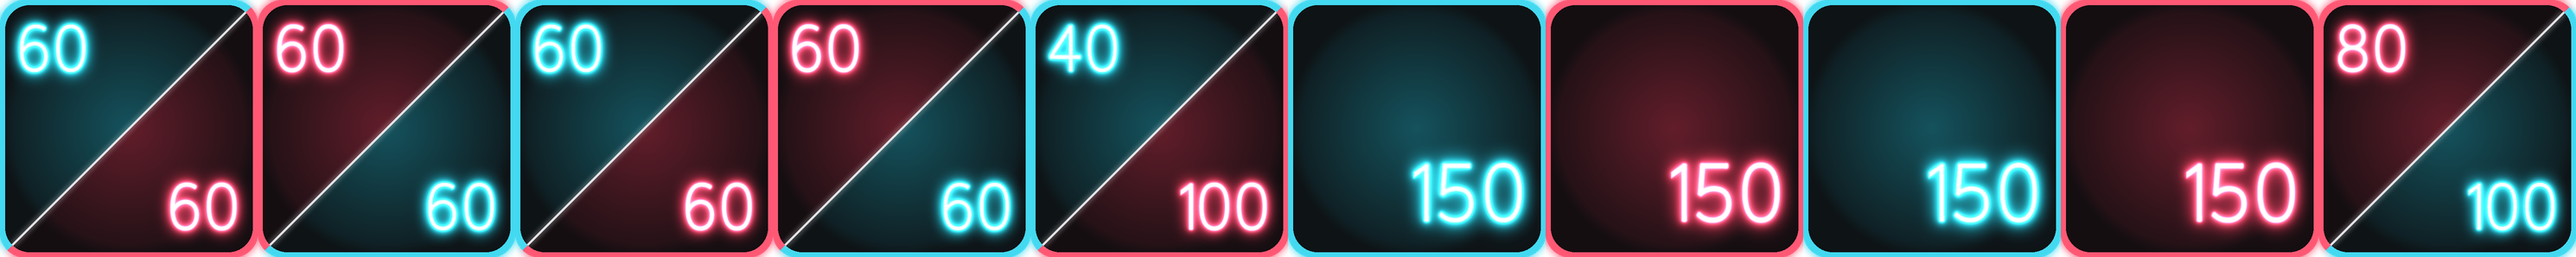
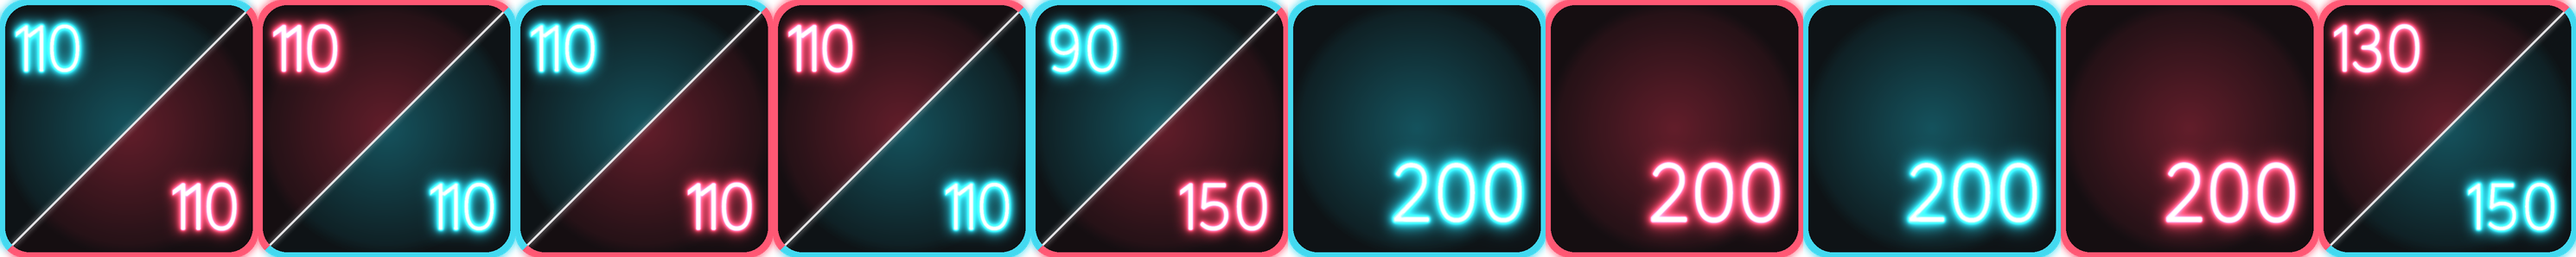
Ship prices: floor 50, smoother climb 50->200, ceiling 2000

diff --git a/core/src/com/spaceship/main/Main.java b/core/src/com/spaceship/main/Main.java
@@ -176,78 +176,78 @@ public class Main extends Game{
 			if(cursor != null && cursor.next())
 				if(String.valueOf(cursor.getInt(0)).equals("0")){
 					shipsDB.execSQL("INSERT INTO ships (id, bought, reds, blues) VALUES (0, 1, 0, 0)");
-					shipsDB.execSQL("INSERT INTO ships (id, bought, reds, blues) VALUES (1, 0, 25, 0)");
-					shipsDB.execSQL("INSERT INTO ships (id, bought, reds, blues) VALUES (2, 0, 0, 25)");
-					shipsDB.execSQL("INSERT INTO ships (id, bought, reds, blues) VALUES (3, 0, 25, 0)");
-					shipsDB.execSQL("INSERT INTO ships (id, bought, reds, blues) VALUES (4, 0, 0, 25)");
-					shipsDB.execSQL("INSERT INTO ships (id, bought, reds, blues) VALUES (5, 0, 0, 25)");
-					shipsDB.execSQL("INSERT INTO ships (id, bought, reds, blues) VALUES (6, 0, 25, 25)");
-					shipsDB.execSQL("INSERT INTO ships (id, bought, reds, blues) VALUES (7, 0, 25, 0)");
-					shipsDB.execSQL("INSERT INTO ships (id, bought, reds, blues) VALUES (8, 0, 25, 25)");
-					shipsDB.execSQL("INSERT INTO ships (id, bought, reds, blues) VALUES (9, 0, 0, 30)");
-					shipsDB.execSQL("INSERT INTO ships (id, bought, reds, blues) VALUES (10, 0, 30, 0)");
-					shipsDB.execSQL("INSERT INTO ships (id, bought, reds, blues) VALUES (11, 0, 40, 0)");
-					shipsDB.execSQL("INSERT INTO ships (id, bought, reds, blues) VALUES (12, 0, 25, 25)");
-					shipsDB.execSQL("INSERT INTO ships (id, bought, reds, blues) VALUES (13, 0, 25, 25)");
-					shipsDB.execSQL("INSERT INTO ships (id, bought, reds, blues) VALUES (14, 0, 0, 40)");
-					shipsDB.execSQL("INSERT INTO ships (id, bought, reds, blues) VALUES (15, 0, 0, 50)");
-					shipsDB.execSQL("INSERT INTO ships (id, bought, reds, blues) VALUES (16, 0, 50, 0)");
-					shipsDB.execSQL("INSERT INTO ships (id, bought, reds, blues) VALUES (17, 0, 0, 50)");
-					shipsDB.execSQL("INSERT INTO ships (id, bought, reds, blues) VALUES (18, 0, 50, 0)");
-					shipsDB.execSQL("INSERT INTO ships (id, bought, reds, blues) VALUES (19, 0, 0, 70)");
-					shipsDB.execSQL("INSERT INTO ships (id, bought, reds, blues) VALUES (20, 0, 70, 0)");
-					shipsDB.execSQL("INSERT INTO ships (id, bought, reds, blues) VALUES (21, 0, 50, 25)");
-					shipsDB.execSQL("INSERT INTO ships (id, bought, reds, blues) VALUES (22, 0, 40, 40)");
-					shipsDB.execSQL("INSERT INTO ships (id, bought, reds, blues) VALUES (23, 0, 80, 0)");
-					shipsDB.execSQL("INSERT INTO ships (id, bought, reds, blues) VALUES (24, 0, 0, 80)");
-					shipsDB.execSQL("INSERT INTO ships (id, bought, reds, blues) VALUES (25, 0, 30, 50)");
-					shipsDB.execSQL("INSERT INTO ships (id, bought, reds, blues) VALUES (26, 0, 0, 100)");
-					shipsDB.execSQL("INSERT INTO ships (id, bought, reds, blues) VALUES (27, 0, 100, 0)");
-					shipsDB.execSQL("INSERT INTO ships (id, bought, reds, blues) VALUES (28, 0, 100, 0)");
-					shipsDB.execSQL("INSERT INTO ships (id, bought, reds, blues) VALUES (29, 0, 0, 100)");
-					shipsDB.execSQL("INSERT INTO ships (id, bought, reds, blues) VALUES (30, 0, 60, 60)");
-					shipsDB.execSQL("INSERT INTO ships (id, bought, reds, blues) VALUES (31, 0, 60, 60)");
-					shipsDB.execSQL("INSERT INTO ships (id, bought, reds, blues) VALUES (32, 0, 60, 60)");
-					shipsDB.execSQL("INSERT INTO ships (id, bought, reds, blues) VALUES (33, 0, 60, 60)");
-					shipsDB.execSQL("INSERT INTO ships (id, bought, reds, blues) VALUES (34, 0, 100, 40)");
-					shipsDB.execSQL("INSERT INTO ships (id, bought, reds, blues) VALUES (35, 0, 0, 150)");
-					shipsDB.execSQL("INSERT INTO ships (id, bought, reds, blues) VALUES (36, 0, 150, 0)");
-					shipsDB.execSQL("INSERT INTO ships (id, bought, reds, blues) VALUES (37, 0, 0, 150)");
-					shipsDB.execSQL("INSERT INTO ships (id, bought, reds, blues) VALUES (38, 0, 150, 0)");
-					shipsDB.execSQL("INSERT INTO ships (id, bought, reds, blues) VALUES (39, 0, 80, 100)");
-					shipsDB.execSQL("INSERT INTO ships (id, bought, reds, blues) VALUES (40, 0, 100, 80)");
-					shipsDB.execSQL("INSERT INTO ships (id, bought, reds, blues) VALUES (41, 0, 80, 100)");
-					shipsDB.execSQL("INSERT INTO ships (id, bought, reds, blues) VALUES (42, 0, 110, 80)");
-					shipsDB.execSQL("INSERT INTO ships (id, bought, reds, blues) VALUES (43, 0, 0, 250)");
-					shipsDB.execSQL("INSERT INTO ships (id, bought, reds, blues) VALUES (44, 0, 250, 0)");
-					shipsDB.execSQL("INSERT INTO ships (id, bought, reds, blues) VALUES (45, 0, 0, 250)");
-					shipsDB.execSQL("INSERT INTO ships (id, bought, reds, blues) VALUES (46, 0, 250, 0)");
-					shipsDB.execSQL("INSERT INTO ships (id, bought, reds, blues) VALUES (47, 0, 160, 60)");
-					shipsDB.execSQL("INSERT INTO ships (id, bought, reds, blues) VALUES (48, 0, 150, 70)");
-					shipsDB.execSQL("INSERT INTO ships (id, bought, reds, blues) VALUES (49, 0, 170, 80)");
-					shipsDB.execSQL("INSERT INTO ships (id, bought, reds, blues) VALUES (50, 0, 0, 350)");
-					shipsDB.execSQL("INSERT INTO ships (id, bought, reds, blues) VALUES (51, 0, 350, 0)");
-					shipsDB.execSQL("INSERT INTO ships (id, bought, reds, blues) VALUES (52, 0, 120, 200)");
-					shipsDB.execSQL("INSERT INTO ships (id, bought, reds, blues) VALUES (53, 0, 450, 0)");
-					shipsDB.execSQL("INSERT INTO ships (id, bought, reds, blues) VALUES (54, 0, 0, 450)");
-					shipsDB.execSQL("INSERT INTO ships (id, bought, reds, blues) VALUES (55, 0, 550, 0)");
-					shipsDB.execSQL("INSERT INTO ships (id, bought, reds, blues) VALUES (56, 0, 0, 550)");
-					shipsDB.execSQL("INSERT INTO ships (id, bought, reds, blues) VALUES (57, 0, 220, 220)");
-					shipsDB.execSQL("INSERT INTO ships (id, bought, reds, blues) VALUES (58, 0, 220, 220)");
-					shipsDB.execSQL("INSERT INTO ships (id, bought, reds, blues) VALUES (59, 0, 170, 350)");
-					shipsDB.execSQL("INSERT INTO ships (id, bought, reds, blues) VALUES (60, 0, 350, 170)");
-					shipsDB.execSQL("INSERT INTO ships (id, bought, reds, blues) VALUES (61, 0, 0, 650)");
-					shipsDB.execSQL("INSERT INTO ships (id, bought, reds, blues) VALUES (62, 0, 650, 0)");
-					shipsDB.execSQL("INSERT INTO ships (id, bought, reds, blues) VALUES (63, 0, 0, 900)");
-					shipsDB.execSQL("INSERT INTO ships (id, bought, reds, blues) VALUES (64, 0, 900, 0)");
-					shipsDB.execSQL("INSERT INTO ships (id, bought, reds, blues) VALUES (65, 0, 450, 450)");
-					shipsDB.execSQL("INSERT INTO ships (id, bought, reds, blues) VALUES (66, 0, 450, 450)");
-					shipsDB.execSQL("INSERT INTO ships (id, bought, reds, blues) VALUES (67, 0, 550, 600)");
-					shipsDB.execSQL("INSERT INTO ships (id, bought, reds, blues) VALUES (68, 0, 900, 650)");
-					shipsDB.execSQL("INSERT INTO ships (id, bought, reds, blues) VALUES (69, 0, 650, 900)");
+					shipsDB.execSQL("INSERT INTO ships (id, bought, reds, blues) VALUES (1, 0, 50, 0)");
+					shipsDB.execSQL("INSERT INTO ships (id, bought, reds, blues) VALUES (2, 0, 0, 50)");
+					shipsDB.execSQL("INSERT INTO ships (id, bought, reds, blues) VALUES (3, 0, 50, 0)");
+					shipsDB.execSQL("INSERT INTO ships (id, bought, reds, blues) VALUES (4, 0, 0, 50)");
+					shipsDB.execSQL("INSERT INTO ships (id, bought, reds, blues) VALUES (5, 0, 0, 60)");
+					shipsDB.execSQL("INSERT INTO ships (id, bought, reds, blues) VALUES (6, 0, 50, 50)");
+					shipsDB.execSQL("INSERT INTO ships (id, bought, reds, blues) VALUES (7, 0, 60, 0)");
+					shipsDB.execSQL("INSERT INTO ships (id, bought, reds, blues) VALUES (8, 0, 50, 50)");
+					shipsDB.execSQL("INSERT INTO ships (id, bought, reds, blues) VALUES (9, 0, 0, 70)");
+					shipsDB.execSQL("INSERT INTO ships (id, bought, reds, blues) VALUES (10, 0, 70, 0)");
+					shipsDB.execSQL("INSERT INTO ships (id, bought, reds, blues) VALUES (11, 0, 80, 0)");
+					shipsDB.execSQL("INSERT INTO ships (id, bought, reds, blues) VALUES (12, 0, 60, 60)");
+					shipsDB.execSQL("INSERT INTO ships (id, bought, reds, blues) VALUES (13, 0, 60, 60)");
+					shipsDB.execSQL("INSERT INTO ships (id, bought, reds, blues) VALUES (14, 0, 0, 80)");
+					shipsDB.execSQL("INSERT INTO ships (id, bought, reds, blues) VALUES (15, 0, 0, 100)");
+					shipsDB.execSQL("INSERT INTO ships (id, bought, reds, blues) VALUES (16, 0, 100, 0)");
+					shipsDB.execSQL("INSERT INTO ships (id, bought, reds, blues) VALUES (17, 0, 0, 100)");
+					shipsDB.execSQL("INSERT INTO ships (id, bought, reds, blues) VALUES (18, 0, 100, 0)");
+					shipsDB.execSQL("INSERT INTO ships (id, bought, reds, blues) VALUES (19, 0, 0, 120)");
+					shipsDB.execSQL("INSERT INTO ships (id, bought, reds, blues) VALUES (20, 0, 120, 0)");
+					shipsDB.execSQL("INSERT INTO ships (id, bought, reds, blues) VALUES (21, 0, 100, 60)");
+					shipsDB.execSQL("INSERT INTO ships (id, bought, reds, blues) VALUES (22, 0, 80, 80)");
+					shipsDB.execSQL("INSERT INTO ships (id, bought, reds, blues) VALUES (23, 0, 130, 0)");
+					shipsDB.execSQL("INSERT INTO ships (id, bought, reds, blues) VALUES (24, 0, 0, 130)");
+					shipsDB.execSQL("INSERT INTO ships (id, bought, reds, blues) VALUES (25, 0, 70, 100)");
+					shipsDB.execSQL("INSERT INTO ships (id, bought, reds, blues) VALUES (26, 0, 0, 150)");
+					shipsDB.execSQL("INSERT INTO ships (id, bought, reds, blues) VALUES (27, 0, 150, 0)");
+					shipsDB.execSQL("INSERT INTO ships (id, bought, reds, blues) VALUES (28, 0, 150, 0)");
+					shipsDB.execSQL("INSERT INTO ships (id, bought, reds, blues) VALUES (29, 0, 0, 150)");
+					shipsDB.execSQL("INSERT INTO ships (id, bought, reds, blues) VALUES (30, 0, 110, 110)");
+					shipsDB.execSQL("INSERT INTO ships (id, bought, reds, blues) VALUES (31, 0, 110, 110)");
+					shipsDB.execSQL("INSERT INTO ships (id, bought, reds, blues) VALUES (32, 0, 110, 110)");
+					shipsDB.execSQL("INSERT INTO ships (id, bought, reds, blues) VALUES (33, 0, 110, 110)");
+					shipsDB.execSQL("INSERT INTO ships (id, bought, reds, blues) VALUES (34, 0, 150, 90)");
+					shipsDB.execSQL("INSERT INTO ships (id, bought, reds, blues) VALUES (35, 0, 0, 200)");
+					shipsDB.execSQL("INSERT INTO ships (id, bought, reds, blues) VALUES (36, 0, 200, 0)");
+					shipsDB.execSQL("INSERT INTO ships (id, bought, reds, blues) VALUES (37, 0, 0, 200)");
+					shipsDB.execSQL("INSERT INTO ships (id, bought, reds, blues) VALUES (38, 0, 200, 0)");
+					shipsDB.execSQL("INSERT INTO ships (id, bought, reds, blues) VALUES (39, 0, 130, 150)");
+					shipsDB.execSQL("INSERT INTO ships (id, bought, reds, blues) VALUES (40, 0, 150, 130)");
+					shipsDB.execSQL("INSERT INTO ships (id, bought, reds, blues) VALUES (41, 0, 130, 150)");
+					shipsDB.execSQL("INSERT INTO ships (id, bought, reds, blues) VALUES (42, 0, 160, 140)");
+					shipsDB.execSQL("INSERT INTO ships (id, bought, reds, blues) VALUES (43, 0, 0, 300)");
+					shipsDB.execSQL("INSERT INTO ships (id, bought, reds, blues) VALUES (44, 0, 300, 0)");
+					shipsDB.execSQL("INSERT INTO ships (id, bought, reds, blues) VALUES (45, 0, 0, 300)");
+					shipsDB.execSQL("INSERT INTO ships (id, bought, reds, blues) VALUES (46, 0, 300, 0)");
+					shipsDB.execSQL("INSERT INTO ships (id, bought, reds, blues) VALUES (47, 0, 210, 110)");
+					shipsDB.execSQL("INSERT INTO ships (id, bought, reds, blues) VALUES (48, 0, 200, 120)");
+					shipsDB.execSQL("INSERT INTO ships (id, bought, reds, blues) VALUES (49, 0, 225, 130)");
+					shipsDB.execSQL("INSERT INTO ships (id, bought, reds, blues) VALUES (50, 0, 0, 400)");
+					shipsDB.execSQL("INSERT INTO ships (id, bought, reds, blues) VALUES (51, 0, 400, 0)");
+					shipsDB.execSQL("INSERT INTO ships (id, bought, reds, blues) VALUES (52, 0, 175, 250)");
+					shipsDB.execSQL("INSERT INTO ships (id, bought, reds, blues) VALUES (53, 0, 500, 0)");
+					shipsDB.execSQL("INSERT INTO ships (id, bought, reds, blues) VALUES (54, 0, 0, 500)");
+					shipsDB.execSQL("INSERT INTO ships (id, bought, reds, blues) VALUES (55, 0, 625, 0)");
+					shipsDB.execSQL("INSERT INTO ships (id, bought, reds, blues) VALUES (56, 0, 0, 625)");
+					shipsDB.execSQL("INSERT INTO ships (id, bought, reds, blues) VALUES (57, 0, 260, 260)");
+					shipsDB.execSQL("INSERT INTO ships (id, bought, reds, blues) VALUES (58, 0, 260, 260)");
+					shipsDB.execSQL("INSERT INTO ships (id, bought, reds, blues) VALUES (59, 0, 225, 375)");
+					shipsDB.execSQL("INSERT INTO ships (id, bought, reds, blues) VALUES (60, 0, 375, 225)");
+					shipsDB.execSQL("INSERT INTO ships (id, bought, reds, blues) VALUES (61, 0, 0, 750)");
+					shipsDB.execSQL("INSERT INTO ships (id, bought, reds, blues) VALUES (62, 0, 750, 0)");
+					shipsDB.execSQL("INSERT INTO ships (id, bought, reds, blues) VALUES (63, 0, 0, 1000)");
+					shipsDB.execSQL("INSERT INTO ships (id, bought, reds, blues) VALUES (64, 0, 1000, 0)");
+					shipsDB.execSQL("INSERT INTO ships (id, bought, reds, blues) VALUES (65, 0, 500, 500)");
+					shipsDB.execSQL("INSERT INTO ships (id, bought, reds, blues) VALUES (66, 0, 500, 500)");
+					shipsDB.execSQL("INSERT INTO ships (id, bought, reds, blues) VALUES (67, 0, 600, 650)");
+					shipsDB.execSQL("INSERT INTO ships (id, bought, reds, blues) VALUES (68, 0, 1000, 750)");
+					shipsDB.execSQL("INSERT INTO ships (id, bought, reds, blues) VALUES (69, 0, 750, 1000)");
 					shipsDB.execSQL("INSERT INTO ships (id, bought, reds, blues) VALUES (70, 0, 0, 2000)");
 					shipsDB.execSQL("INSERT INTO ships (id, bought, reds, blues) VALUES (71, 0, 2000, 0)");
-					shipsDB.execSQL("INSERT INTO ships (id, bought, reds, blues) VALUES (72, 0, 1500, 1100)");
+					shipsDB.execSQL("INSERT INTO ships (id, bought, reds, blues) VALUES (72, 0, 1600, 1200)");
 					shipsDB.execSQL("INSERT INTO ships (id, bought, reds, blues) VALUES (73, 0, 2000, 2000)");
 					shipsDB.execSQL("INSERT INTO ships (id, bought, reds, blues) VALUES (74, 0, 2000, 2000)");
 				}		
@@ -345,7 +345,7 @@ public class Main extends Game{
 		}
 		// ship prices were lowered: bring existing saves to the current price list (safe to repeat, bought flags are untouched)
 		try {
-			int[][] shipPrices = {{1,25,0},{2,0,25},{3,25,0},{4,0,25},{5,0,25},{6,25,25},{7,25,0},{8,25,25},{9,0,30},{10,30,0},{11,40,0},{12,25,25},{13,25,25},{14,0,40},{15,0,50},{16,50,0},{17,0,50},{18,50,0},{19,0,70},{20,70,0},{21,50,25},{22,40,40},{23,80,0},{24,0,80},{25,30,50},{26,0,100},{27,100,0},{28,100,0},{29,0,100},{30,60,60},{31,60,60},{32,60,60},{33,60,60},{34,100,40},{35,0,150},{36,150,0},{37,0,150},{38,150,0},{39,80,100},{40,100,80},{41,80,100},{42,110,80},{43,0,250},{44,250,0},{45,0,250},{46,250,0},{47,160,60},{48,150,70},{49,170,80},{50,0,350},{51,350,0},{52,120,200},{53,450,0},{54,0,450},{55,550,0},{56,0,550},{57,220,220},{58,220,220},{59,170,350},{60,350,170},{61,0,650},{62,650,0},{63,0,900},{64,900,0},{65,450,450},{66,450,450},{67,550,600},{68,900,650},{69,650,900},{70,0,2000},{71,2000,0},{72,1500,1100},{73,2000,2000},{74,2000,2000}};
+			int[][] shipPrices = {{1,50,0},{2,0,50},{3,50,0},{4,0,50},{5,0,60},{6,50,50},{7,60,0},{8,50,50},{9,0,70},{10,70,0},{11,80,0},{12,60,60},{13,60,60},{14,0,80},{15,0,100},{16,100,0},{17,0,100},{18,100,0},{19,0,120},{20,120,0},{21,100,60},{22,80,80},{23,130,0},{24,0,130},{25,70,100},{26,0,150},{27,150,0},{28,150,0},{29,0,150},{30,110,110},{31,110,110},{32,110,110},{33,110,110},{34,150,90},{35,0,200},{36,200,0},{37,0,200},{38,200,0},{39,130,150},{40,150,130},{41,130,150},{42,160,140},{43,0,300},{44,300,0},{45,0,300},{46,300,0},{47,210,110},{48,200,120},{49,225,130},{50,0,400},{51,400,0},{52,175,250},{53,500,0},{54,0,500},{55,625,0},{56,0,625},{57,260,260},{58,260,260},{59,225,375},{60,375,225},{61,0,750},{62,750,0},{63,0,1000},{64,1000,0},{65,500,500},{66,500,500},{67,600,650},{68,1000,750},{69,750,1000},{70,0,2000},{71,2000,0},{72,1600,1200},{73,2000,2000},{74,2000,2000}};
 			for (int[] sp : shipPrices)
 				shipsDB.execSQL("UPDATE ships SET reds=" + sp[1] + ", blues=" + sp[2] + " WHERE id=" + sp[0] + ";");
 		} catch (SQLiteGdxException e) {
